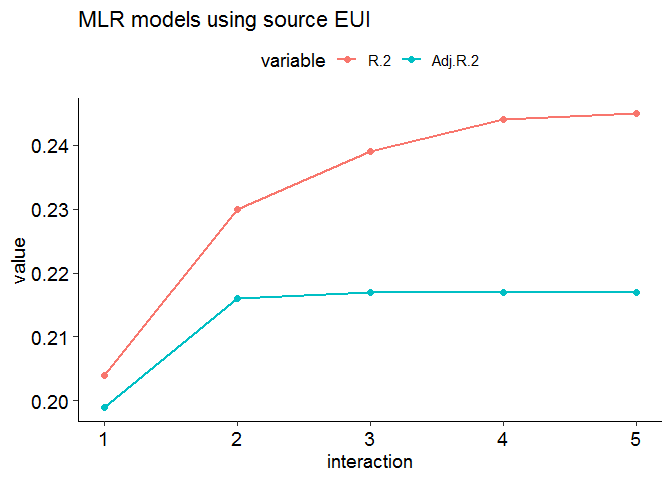
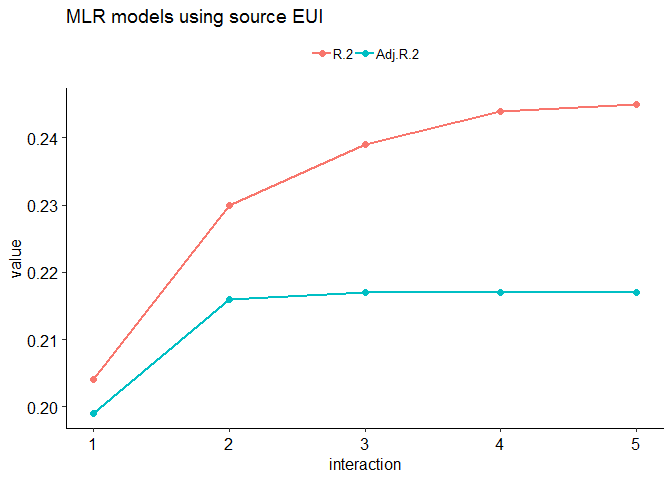
updated office.md file

diff --git a/office.md b/office.md
@@ -609,8 +609,9 @@ plotR2 <- function(df, titl) {
   plot <- ggplot(df1, aes(x = interaction, y=value, 
                           group=variable, col=variable)) + 
   geom_point(size=2) + geom_line(size=1) +
-  theme_bw() + theme(legend.position="top") + 
-    ggtitle(titl) + mytheme + theme_pubr(base_size=14)
+    ggtitle(titl) + 
+    theme_pubr(base_size=12) +
+    theme(legend.position="top", legend.title = element_blank())
   
   return(plot)
 }
@@ -625,8 +626,10 @@ plotNRMSE <- function(df, titl) {
   plot <- ggplot(df1, aes(x = interaction, y=value, 
                           group=variable, col=variable)) + 
   geom_point(size=2) + geom_line(size=1) +
-  theme_bw() + theme(legend.position="top") + 
-    ggtitle(titl) + mytheme + theme_pubr(base_size=14)
+    ggtitle(titl) + 
+    theme_pubr(base_size=12) +
+    theme(legend.position="top", legend.title = element_blank())
+    
   
   return(plot)
 }  
